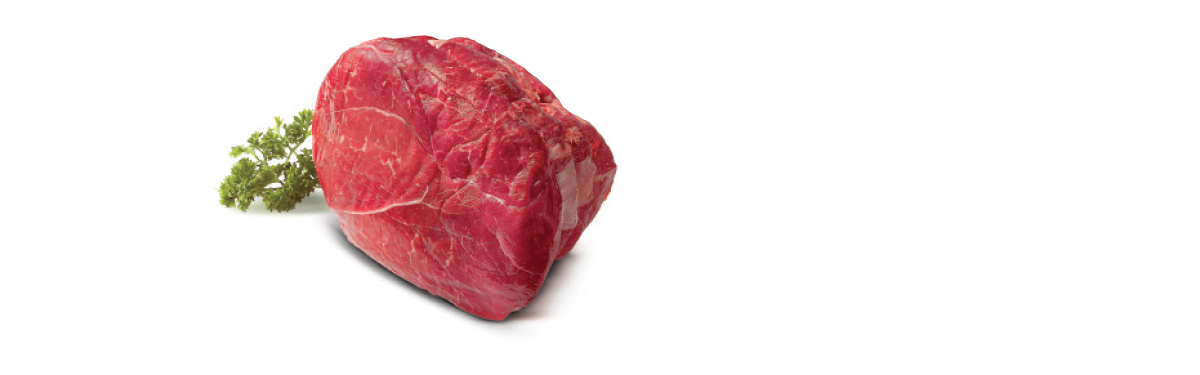
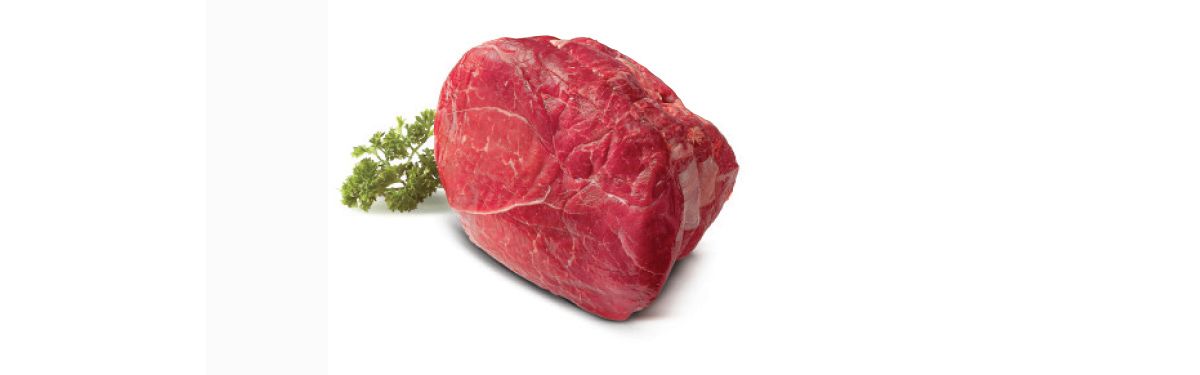
refactored so that inline styles are available via JSON for both desktop and mobile

Changed region(s): [[0.185, 0.088, 0.6167, 0.88]]

diff --git a/htdocs/prod/web/assets/js/hlf.carousel.js b/htdocs/prod/web/assets/js/hlf.carousel.js
@@ -29,38 +29,41 @@ var carousel = {
         // iterate through the slides of the current carousel
         $.each(item.slides, function(key2,slide) {
 
-            console.log(item.slides[slide.order].badges[1]);
-            // render the template
-            mapping = {
-              "_link_" : item.slides[slide.order].link,
-              "_desktopSlideBackground_" : item.slides[slide.order].desktopSlideBackground,
-              "_mobileSlideBackground_" : item.slides[slide.order].mobileSlideBackground,
-              "_active_" : item.slides[slide.order].active ? "active" : "",
-              "_containerCSS_" : item.slides[slide.order].containerCSS != null ? item.slides[slide.order].containerCSS : "display:none",
-              "_headingContainerCSS_" : item.slides[slide.order].headingContainerCSS != null ? item.slides[slide.order].headingContainerCSS : "display:none",
-              "_heading_" : item.slides[slide.order].heading != null ? item.slides[slide.order].heading : "",
-              "_headingCSS_" : item.slides[slide.order].headingCSS != null ? item.slides[slide.order].headingCSS : "display:none",
-              "_subheading_" : item.slides[slide.order].subheading != null ? item.slides[slide.order].subheading : "",
-              "_subheadingCSS_" : item.slides[slide.order].subheadingCSS != null ? item.slides[slide.order].subheadingCSS : "display:none",
-              "_imageOverlay_" : item.slides[slide.order].imageOverlay != null ? item.slides[slide.order].imageOverlay : "",
-              "_imageOverlayCSS_" : item.slides[slide.order].imageOverlayCSS != null ? item.slides[slide.order].imageOverlayCSS : "display:none",
-              "_textOverlay_" : item.slides[slide.order].textOverlay != null ? item.slides[slide.order].textOverlay : "",
-              "_textOverlayCSS_" : item.slides[slide.order].textOverlayCSS != null ? item.slides[slide.order].textOverlayCSS : "display:none",
-              "_priceImage_" : item.slides[slide.order].priceImage != null ? item.slides[slide.order].priceImage : "",
-              "_priceImageCSS_" : item.slides[slide.order].priceImageCSS != null ? item.slides[slide.order].priceImageCSS : "display:none",
-              "_badge1_" : item.slides[slide.order].badges[0] != undefined ? item.slides[slide.order].badges[0].image : "",
-              "_badge1CSS_" : item.slides[slide.order].badges[0] != undefined ? item.slides[slide.order].badges[0].css : "display:none",
-              "_badge2_" : item.slides[slide.order].badges[1] != undefined ? item.slides[slide.order].badges[1].image : "",
-              "_badge2CSS_" : item.slides[slide.order].badges[1] != undefined ? item.slides[slide.order].badges[1].css : "display:none",
-              "_descriptionLeftText_" : item.slides[slide.order].descriptionLeftText != null ? item.slides[slide.order].descriptionLeftText : "",
-              "_descriptionLeftTextCSS_" : item.slides[slide.order].descriptionLeftTextCSS != null ? item.slides[slide.order].descriptionLeftTextCSS : "display:none",
-              "_descriptionRightText_" : item.slides[slide.order].descriptionRightText != null ? item.slides[slide.order].descriptionRightText : "",
-              "_descriptionRightTextCSS_" : item.slides[slide.order].descriptionRightTextCSS != null ? item.slides[slide.order].descriptionRightTextCSS : "display:none",
-            };
+          // render the template
+          mapping = {
+            "_slideID_" : item.slides[slide.order].slideID,
+            "_link_" : item.slides[slide.order].link,
+            "_desktopSlideBackground_" : item.slides[slide.order].desktopSlideBackground,
+            "_mobileSlideBackground_" : item.slides[slide.order].mobileSlideBackground,
+            "_active_" : item.slides[slide.order].active ? "active" : "",
+            "_containerCSS_" : item.slides[slide.order].containerCSS != null ? item.slides[slide.order].containerCSS : "display:none",
+            "_headingContainerCSS_" : item.slides[slide.order].headingContainerCSS != null ? item.slides[slide.order].headingContainerCSS : "display:none",
+            "_heading_" : item.slides[slide.order].heading != null ? item.slides[slide.order].heading : "",
+            "_headingCSS_" : item.slides[slide.order].headingCSS != null ? item.slides[slide.order].headingCSS : "display:none",
+            "_headingMobileCSS_" : item.slides[slide.order].headingMobileCSS != null ? item.slides[slide.order].headingMobileCSS : "display:none",
+            "_subheading_" : item.slides[slide.order].subheading != null ? item.slides[slide.order].subheading : "",
+            "_subheadingCSS_" : item.slides[slide.order].subheadingCSS != null ? item.slides[slide.order].subheadingCSS : "display:none",
+            "_subheadingMobileCSS_" : item.slides[slide.order].subheadingMobileCSS != null ? item.slides[slide.order].subheadingMobileCSS : "display:none",
+            "_imageOverlay_" : item.slides[slide.order].imageOverlay != null ? item.slides[slide.order].imageOverlay : "",
+            "_imageOverlayCSS_" : item.slides[slide.order].imageOverlayCSS != null ? item.slides[slide.order].imageOverlayCSS : "display:none",
+            "_textOverlay_" : item.slides[slide.order].textOverlay != null ? item.slides[slide.order].textOverlay : "",
+            "_textOverlayCSS_" : item.slides[slide.order].textOverlayCSS != null ? item.slides[slide.order].textOverlayCSS : "display:none",
+            "_priceImage_" : item.slides[slide.order].priceImage != null ? item.slides[slide.order].priceImage : "",
+            "_priceImageCSS_" : item.slides[slide.order].priceImageCSS != null ? item.slides[slide.order].priceImageCSS : "display:none",
+            "_badge1_" : item.slides[slide.order].badges[0] != undefined ? item.slides[slide.order].badges[0].image : "",
+            "_badge1CSS_" : item.slides[slide.order].badges[0] != undefined ? item.slides[slide.order].badges[0].css : "display:none",
+            "_badge2_" : item.slides[slide.order].badges[1] != undefined ? item.slides[slide.order].badges[1].image : "",
+            "_badge2CSS_" : item.slides[slide.order].badges[1] != undefined ? item.slides[slide.order].badges[1].css : "display:none",
+            "_descriptionLeftText_" : item.slides[slide.order].descriptionLeftText != null ? item.slides[slide.order].descriptionLeftText : "",
+            "_descriptionLeftTextCSS_" : item.slides[slide.order].descriptionLeftTextCSS != null ? item.slides[slide.order].descriptionLeftTextCSS : "display:none",
+            "_descriptionLeftTextMobileCSS_" : item.slides[slide.order].descriptionLeftTextMobileCSS != null ? item.slides[slide.order].descriptionLeftTextMobileCSS : "display:none",
+            "_descriptionRightText_" : item.slides[slide.order].descriptionRightText != null ? item.slides[slide.order].descriptionRightText : "",
+            "_descriptionRightTextCSS_" : item.slides[slide.order].descriptionRightTextCSS != null ? item.slides[slide.order].descriptionRightTextCSS : "display:none",
+            "_descriptionRightTextMobileCSS_" : item.slides[slide.order].descriptionRightTextMobileCSS != null ? item.slides[slide.order].descriptionRightTextMobileCSS : "display:none"
+          };
 
-            html = hlf.drawTemplate("#slide-template", mapping);
-            $('.carousel-inner').append(html);
-            // $(document.body).prepend(html);
+          html = hlf.drawTemplate("#slide-template", mapping);
+          $('.carousel-inner').append(html);
 
           // add carousel dots dynamically
           if (slide.order === 0) {

diff --git a/htdocs/prod/web/application/views/home.php b/htdocs/prod/web/application/views/home.php
@@ -1,51 +1,8 @@
-<style>
-    @media screen and (max-width: 767px) {
-      #carousel-slide1 {
-        background: url(assets/images/test-new-carousel/home_banner_mobile_1.jpg) no-repeat center center !important;
-        background-size: cover !important;
-      }
-      #carousel-slide2 {
-        background: url(assets/images/test-new-carousel/home_banner_mobile_2.jpg) no-repeat center center !important;
-      }
-      #carousel-slide3 {
-        background: url(assets/images/test-new-carousel/home_banner_mobile_3.jpg) no-repeat center center !important;
-      }
-      #carousel-slide4 {
-        background: url(assets/images/test-new-carousel/home_banner_mobile_4.jpg) no-repeat center center !important;
-      }
-      #carousel-slide5 {
-        background: url(assets/images/test-new-carousel/home_banner_mobile_5.jpg) no-repeat center center !important;
-      }
-      #carousel-slide6 {
-        background: url(assets/images/test-new-carousel/home_banner_mobile_6.jpg) no-repeat center center !important;
-      }
-      span.heading-text {
-        font-size: 48px !important;
-        line-height: 54px !important;
-      }
-      span.subheading-text {
-        font-size: 28px !important;
-        line-height: 36px !important;
-      }
-      .carousel-description-left {
-        bottom: -10px !important;
-      }
-      .carousel-description-right {
-        right: 155px !important;
-        bottom: 0 !important;
-        font-size: 16px !important;
-      }
-    }
-</style>
-
 <div id="carousel" class="carousel slide home" data-ride="carousel" data-interval="60000" >
     <ol class="carousel-indicators">
     </ol>
 
     <div class="carousel-inner" role="listbox">
-
-
-
     </div> <!-- end carousel-inner -->
 
 
@@ -61,49 +18,10 @@
 
 </header>
 
-<script type="text/html" id="slide-feature">
-  <a href="_link_"  class="item active responsive">
-    <div class="carousel-item-container desktop col-xs-12">
-      _featuredDescription_
-      <div class="item-1-img" style="_desktopSideImageStyles_">
-          <img src="<?=site_url()?>_desktopSideImage_" alt="image" style="_desktopSideImageStylesImg_">
-      </div>
-    </div>
-
-    <div class="desktop item-1-slide" style="background-image: url('_desktopSlideBackground_');"></div>
-
-    <img class="mobile" src="<?=site_url()?>_mobileSlideBackground_">
-  </a>
-</script>
-
-<script type="text/html" id="slide-dow-inline">
-    <a  href="_link_" class="item responsive">
-      <div class="carousel-item-container desktop col-xs-12 home-carousel-caption">
-      <div class="row dow-product-desc-container">
-        <p class="pull-left desktop dow-product-desc">_description_<h5 class="dow-product-details">_descriptionSubtext_</h5></p>
-        </div>
-          <img class="desktop" src="<?=site_url()?>_desktopPriceImage_">
-        </div>
-
-        <img class="desktop" src="<?=site_url()?>_desktopSlideBackground_">
-        <img class="mobile" src="<?=site_url()?>_mobileSlideBackground_">
-    </a>
-</script>
-
-<script type="text/html" id="slide-dow">
-    <a href="_link_" class="item responsive">
-    <div class="carousel-item-container desktop col-xs-12 home-carousel-caption">
-        <img class="desktop" src="<?=site_url()?>_desktopPriceImage_">
-    </div>
-
-    <img class="desktop" src="<?=site_url()?>_desktopSlideBackground_">
-    <img class="mobile" src="<?=site_url()?>_mobileSlideBackground_">
-
-  </a>
-</script>
-
 <script type="text/html" id="slide-template">
-  <a href="_link_" id="carousel-slide1" class="item _active_" style="background: url(_desktopSlideBackground_) no-repeat center center; background-size: cover; height: 375px;">
+  <a href="_link_" class="item _active_">
+
+    <div class="desktop" style="background: url(_desktopSlideBackground_) no-repeat center center; background-size: cover; height: 375px;">
 
           <div class="container" style="_containerCSS_">
 
@@ -134,35 +52,43 @@
 
           </div> <!-- end container -->
 
-        </a> <!-- end item -->
+    </div> <!-- end desktop -->
 
+    <div class="mobile" style="background: url(_mobileSlideBackground_) no-repeat center center; background-size: cover; height: 375px;">
+
+          <div class="container" style="_containerCSS_">
+
+              <p class="heading-container" style="_headingContainerCSS_">
+                <span class="heading-text" style="_headingMobileCSS_">_heading_</span> <br>
+                <span class="subheading-text" style="_subheadingMobileCSS_">_subheading_</span>
+              </p>
+
+              <img class="carousel-image-overlay" src="_imageOverlay_" alt="image" style="_imageOverlayCSS_">
+
+              <p class="carousel-text-overlay" style="_textOverlayCSS_">
+              _textOverlay_
+              </p>
+
+              <img class="price-image" src="_priceImage_" alt="price" style="_priceImageCSS_">
+
+              <img class="badge1" src="_badge1_" alt="badge" style="_badge1CSS_">
+
+              <img class="badge2" src="_badge2_" alt="badge" style="_badge2CSS_">
+
+              <div class="carousel-description-left" style="_descriptionLeftTextMobileCSS_">
+                _descriptionLeftText_
+              </div>
+
+              <div class="carousel-description-right" style="_descriptionRightTextMobileCSS_">
+                _descriptionRightText_
+              </div>
+
+          </div> <!-- end container -->
+
+    </div> <!-- end mobile -->
+
+  </a> <!-- end item -->
 </script>
-
-<script type="text/html" id="mobile-style">
-  <style>
-    @media screen and (max-width: 767px) {
-      #slide1 {
-        background: url(_mobileSlideBackground_) no-repeat center center !important;
-        background-size: cover !important;
-      }
-
-      .price {
-        width: 150px;
-      }
-      span.heading-text {
-        font-size: 48px !important;
-        line-height: 54px !important;
-      }
-
-      span.subheading-text {
-        font-size: 28px !important;
-        line-height: 36px !important;
-      }
-
-    }
-  </style>
-</script>
-
 
 
 <main class='home'>
